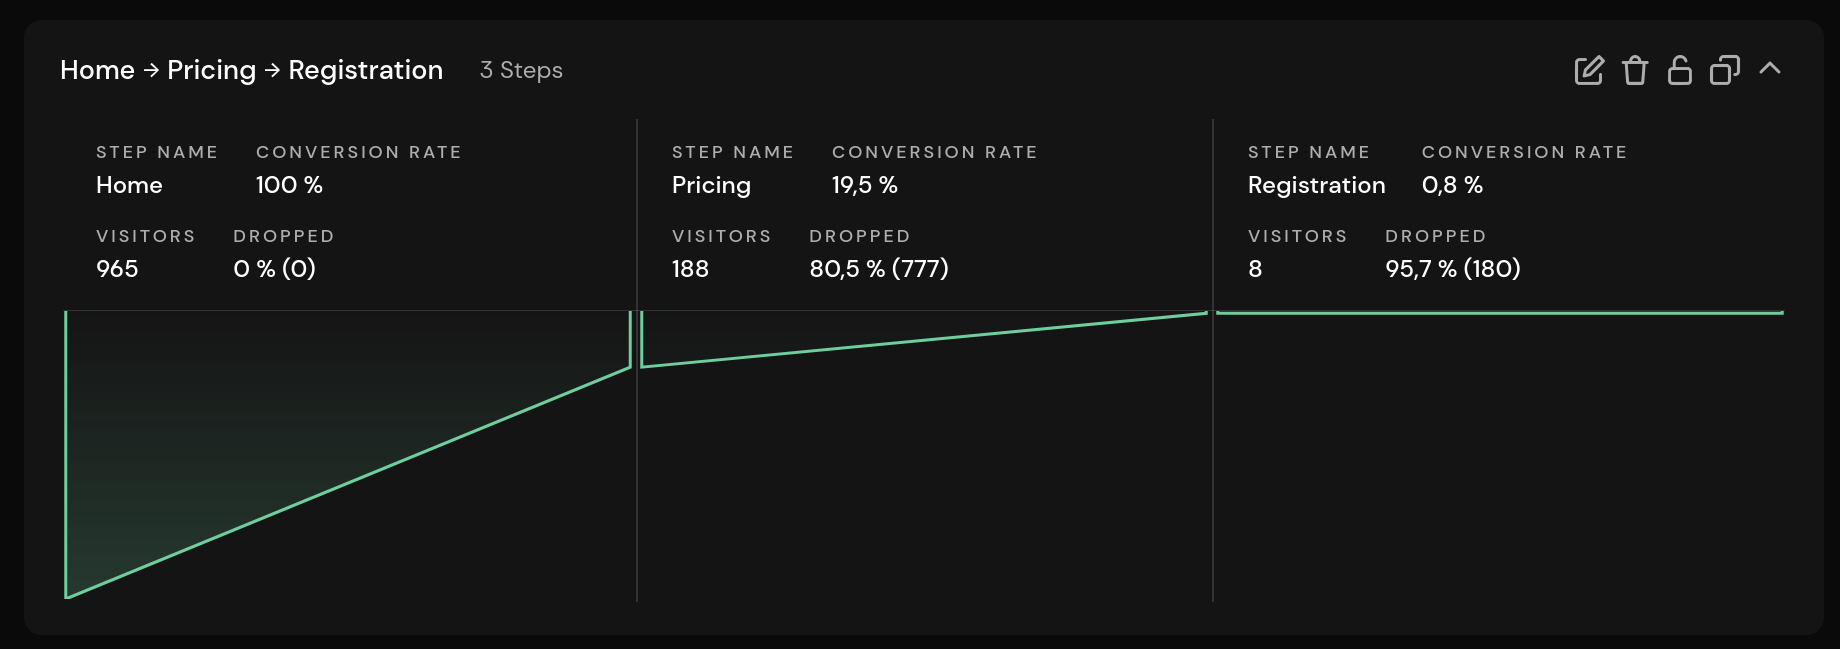
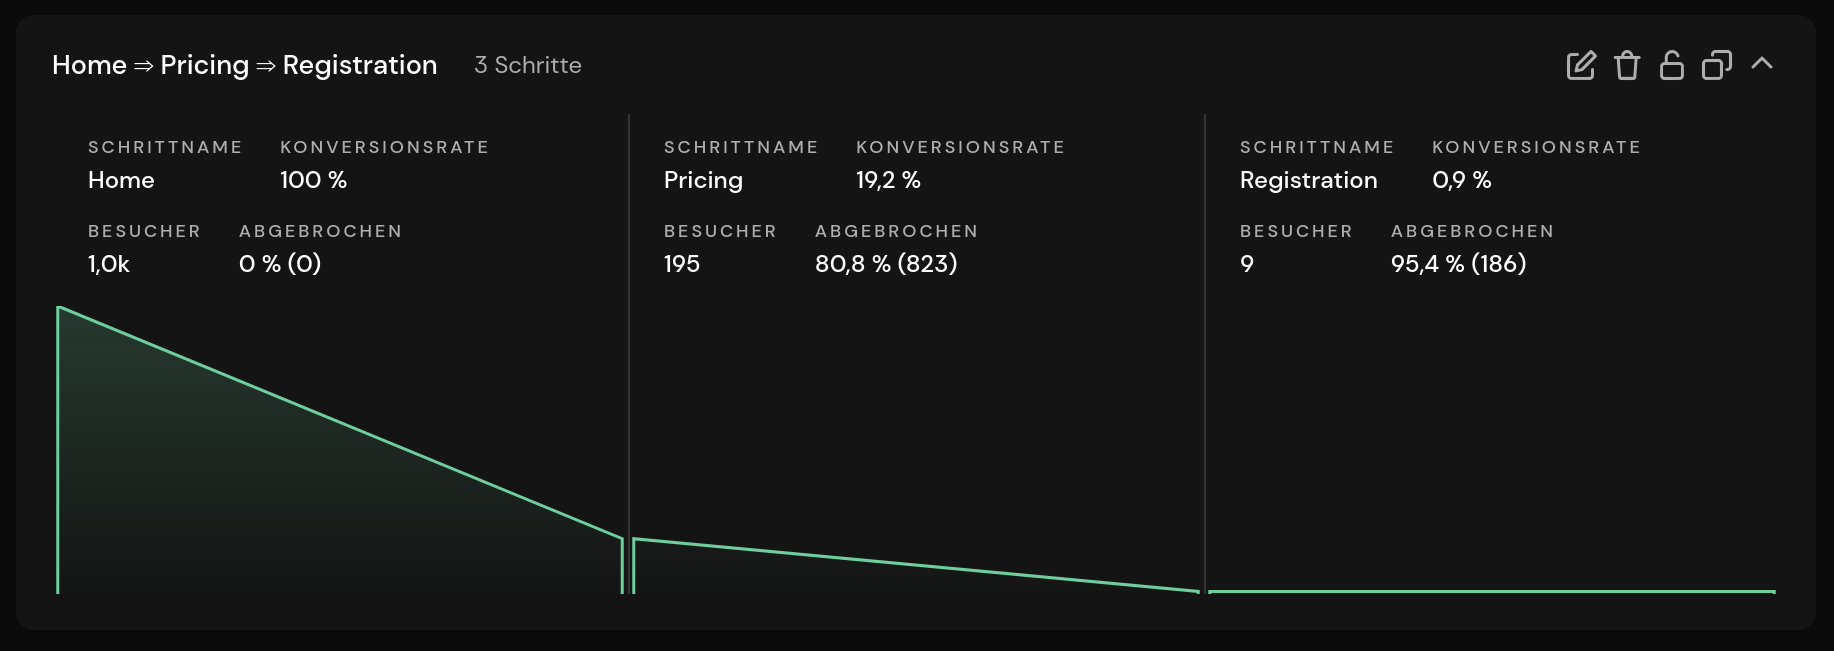
Updated changelog and screenshots.

diff --git a/docs/advanced/funnels.md b/docs/advanced/funnels.md
@@ -39,9 +39,7 @@ Once you've created your first funnel, it will immediately start collecting data
 * The absolute and relative number of visitors left per step
 * The drop-off rate and the absolute number of visitors dropping off each step from the previous step
 
-The first step will always show 100%. This is the base line. On the following steps, hover your mouse over to see the statistics.
-
-![Funnel Tooltip](../static/advanced/funnel/funnel-tooltip.png)
+The first step will always show 100%. This is the base line.
 
 ## Deleting, Copying, and Locking a Funnel
 

diff --git a/docs/changelog.md b/docs/changelog.md
@@ -1,5 +1,12 @@
 # Changelog
 
+## 2.6.3
+
+Release: 2024-07-10
+
+* flipped funnel chart
+* fixed updating multiple funnels on period change
+
 ## 2.6.2
 
 Release: 2024-07-09
